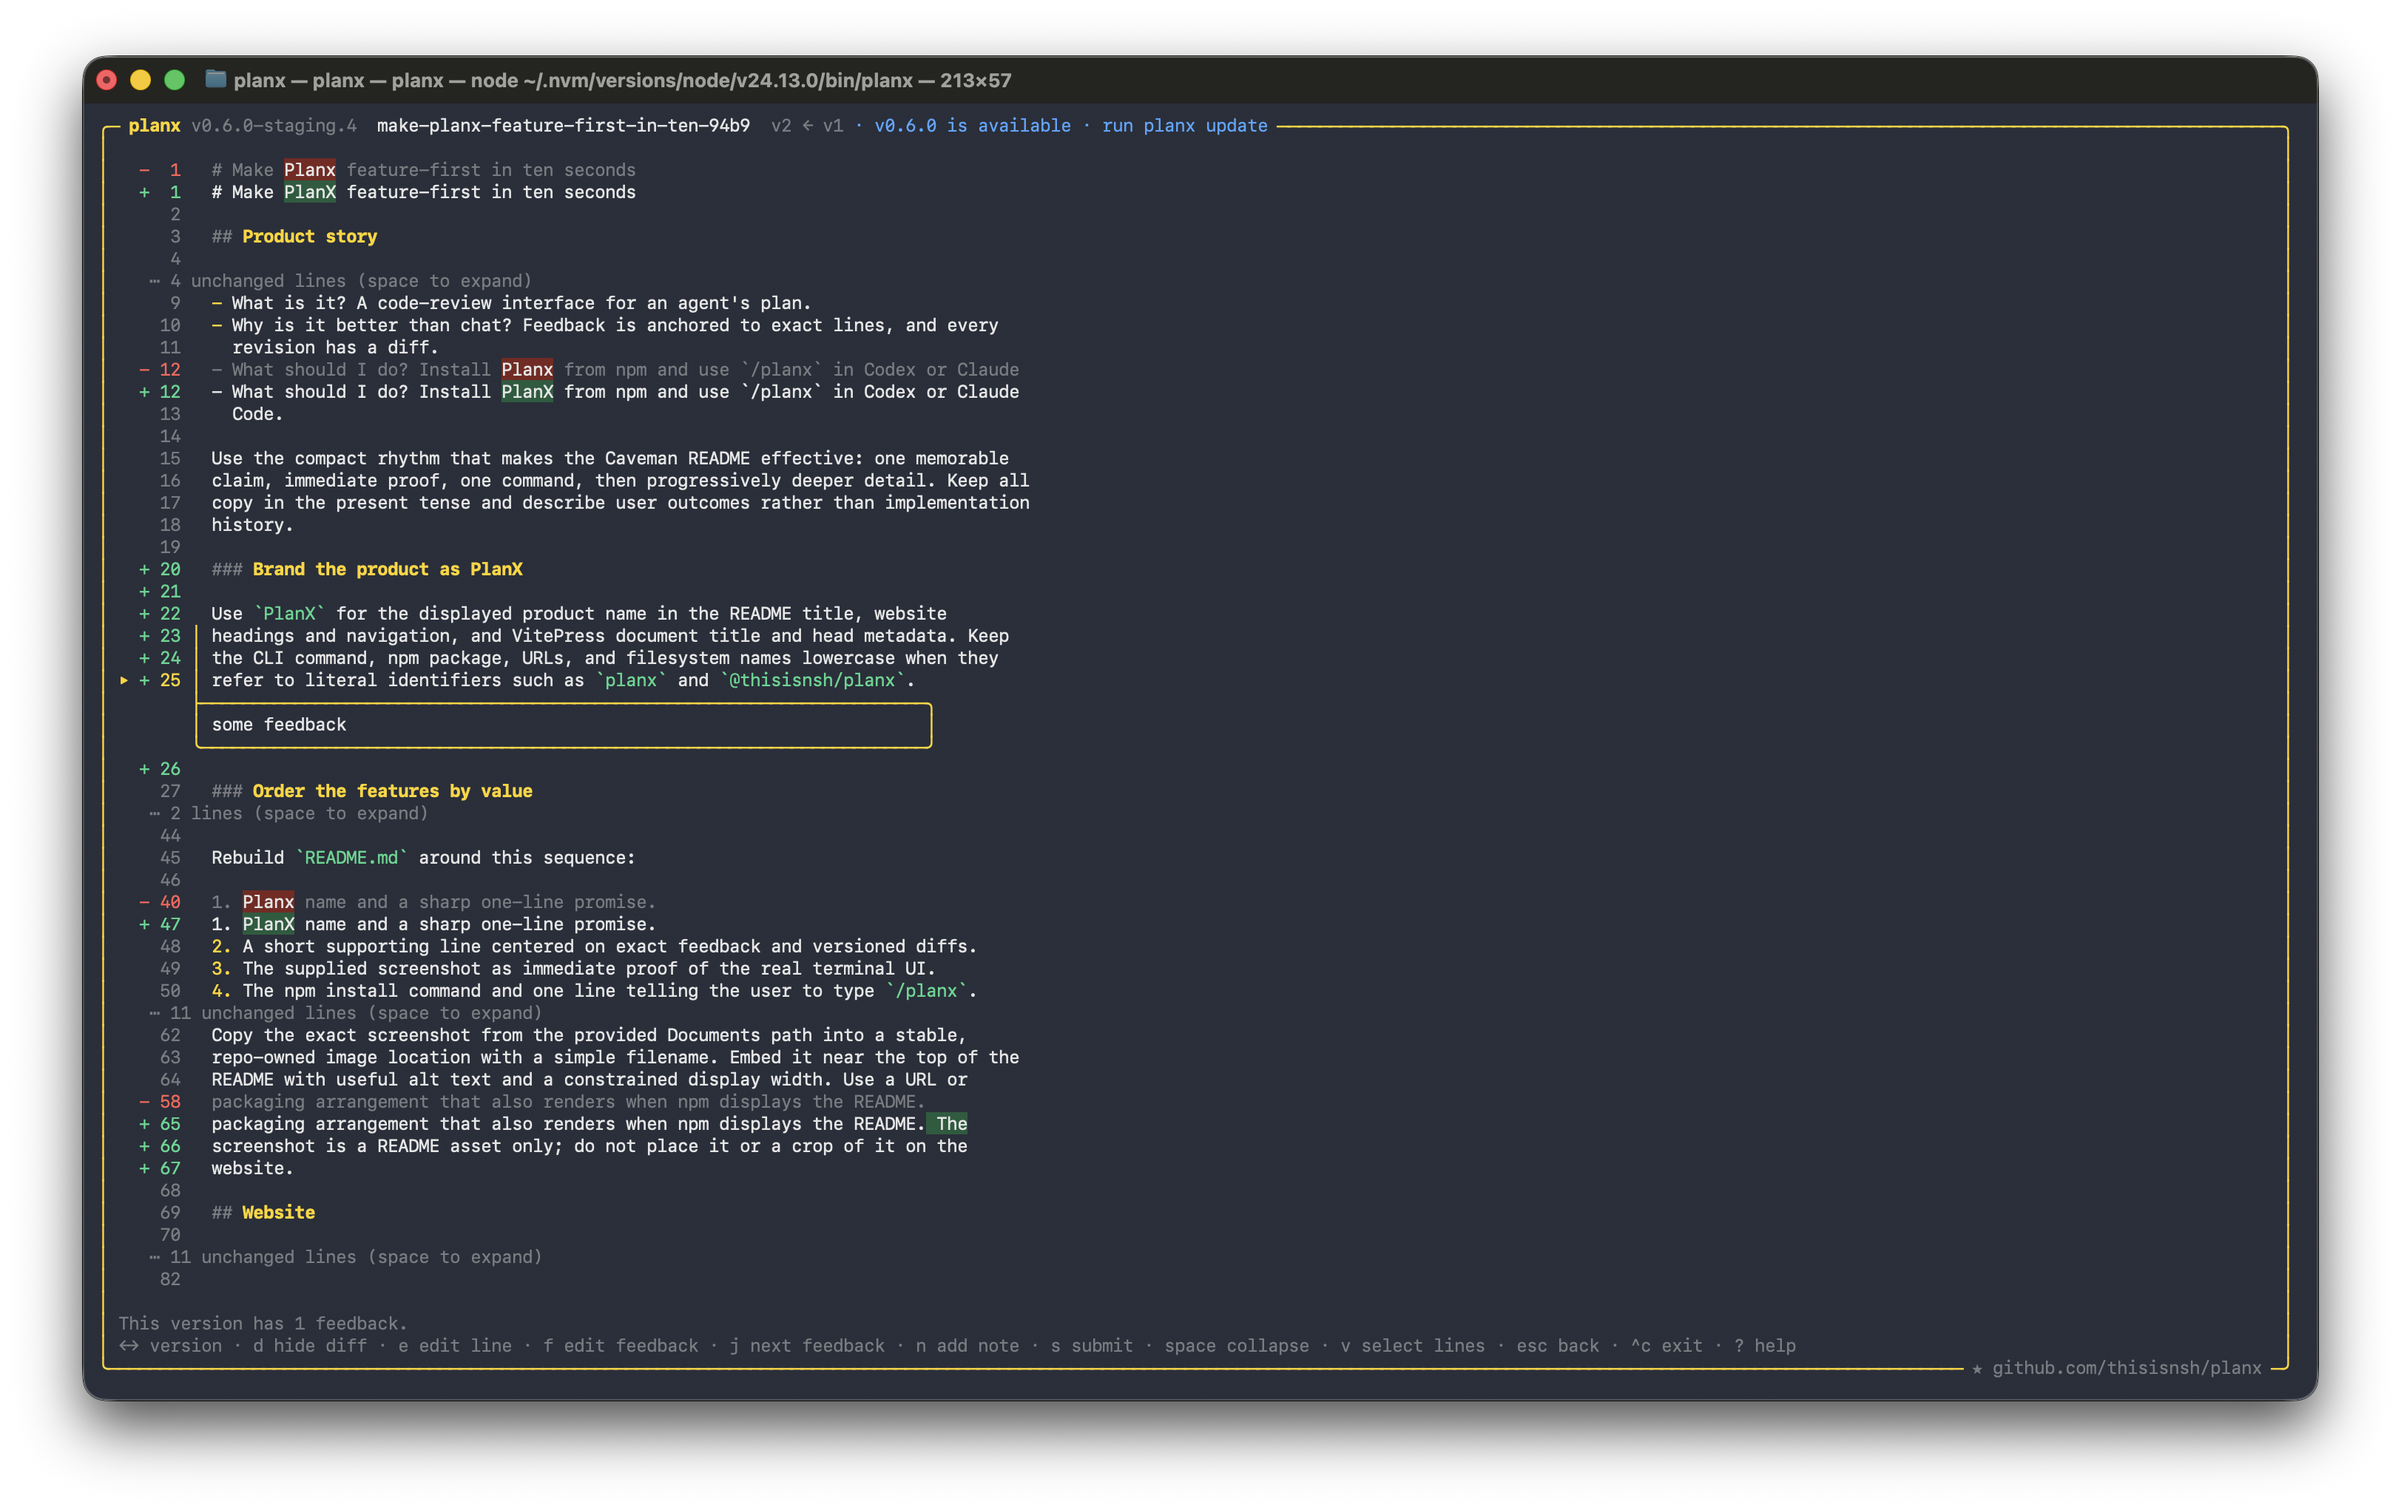
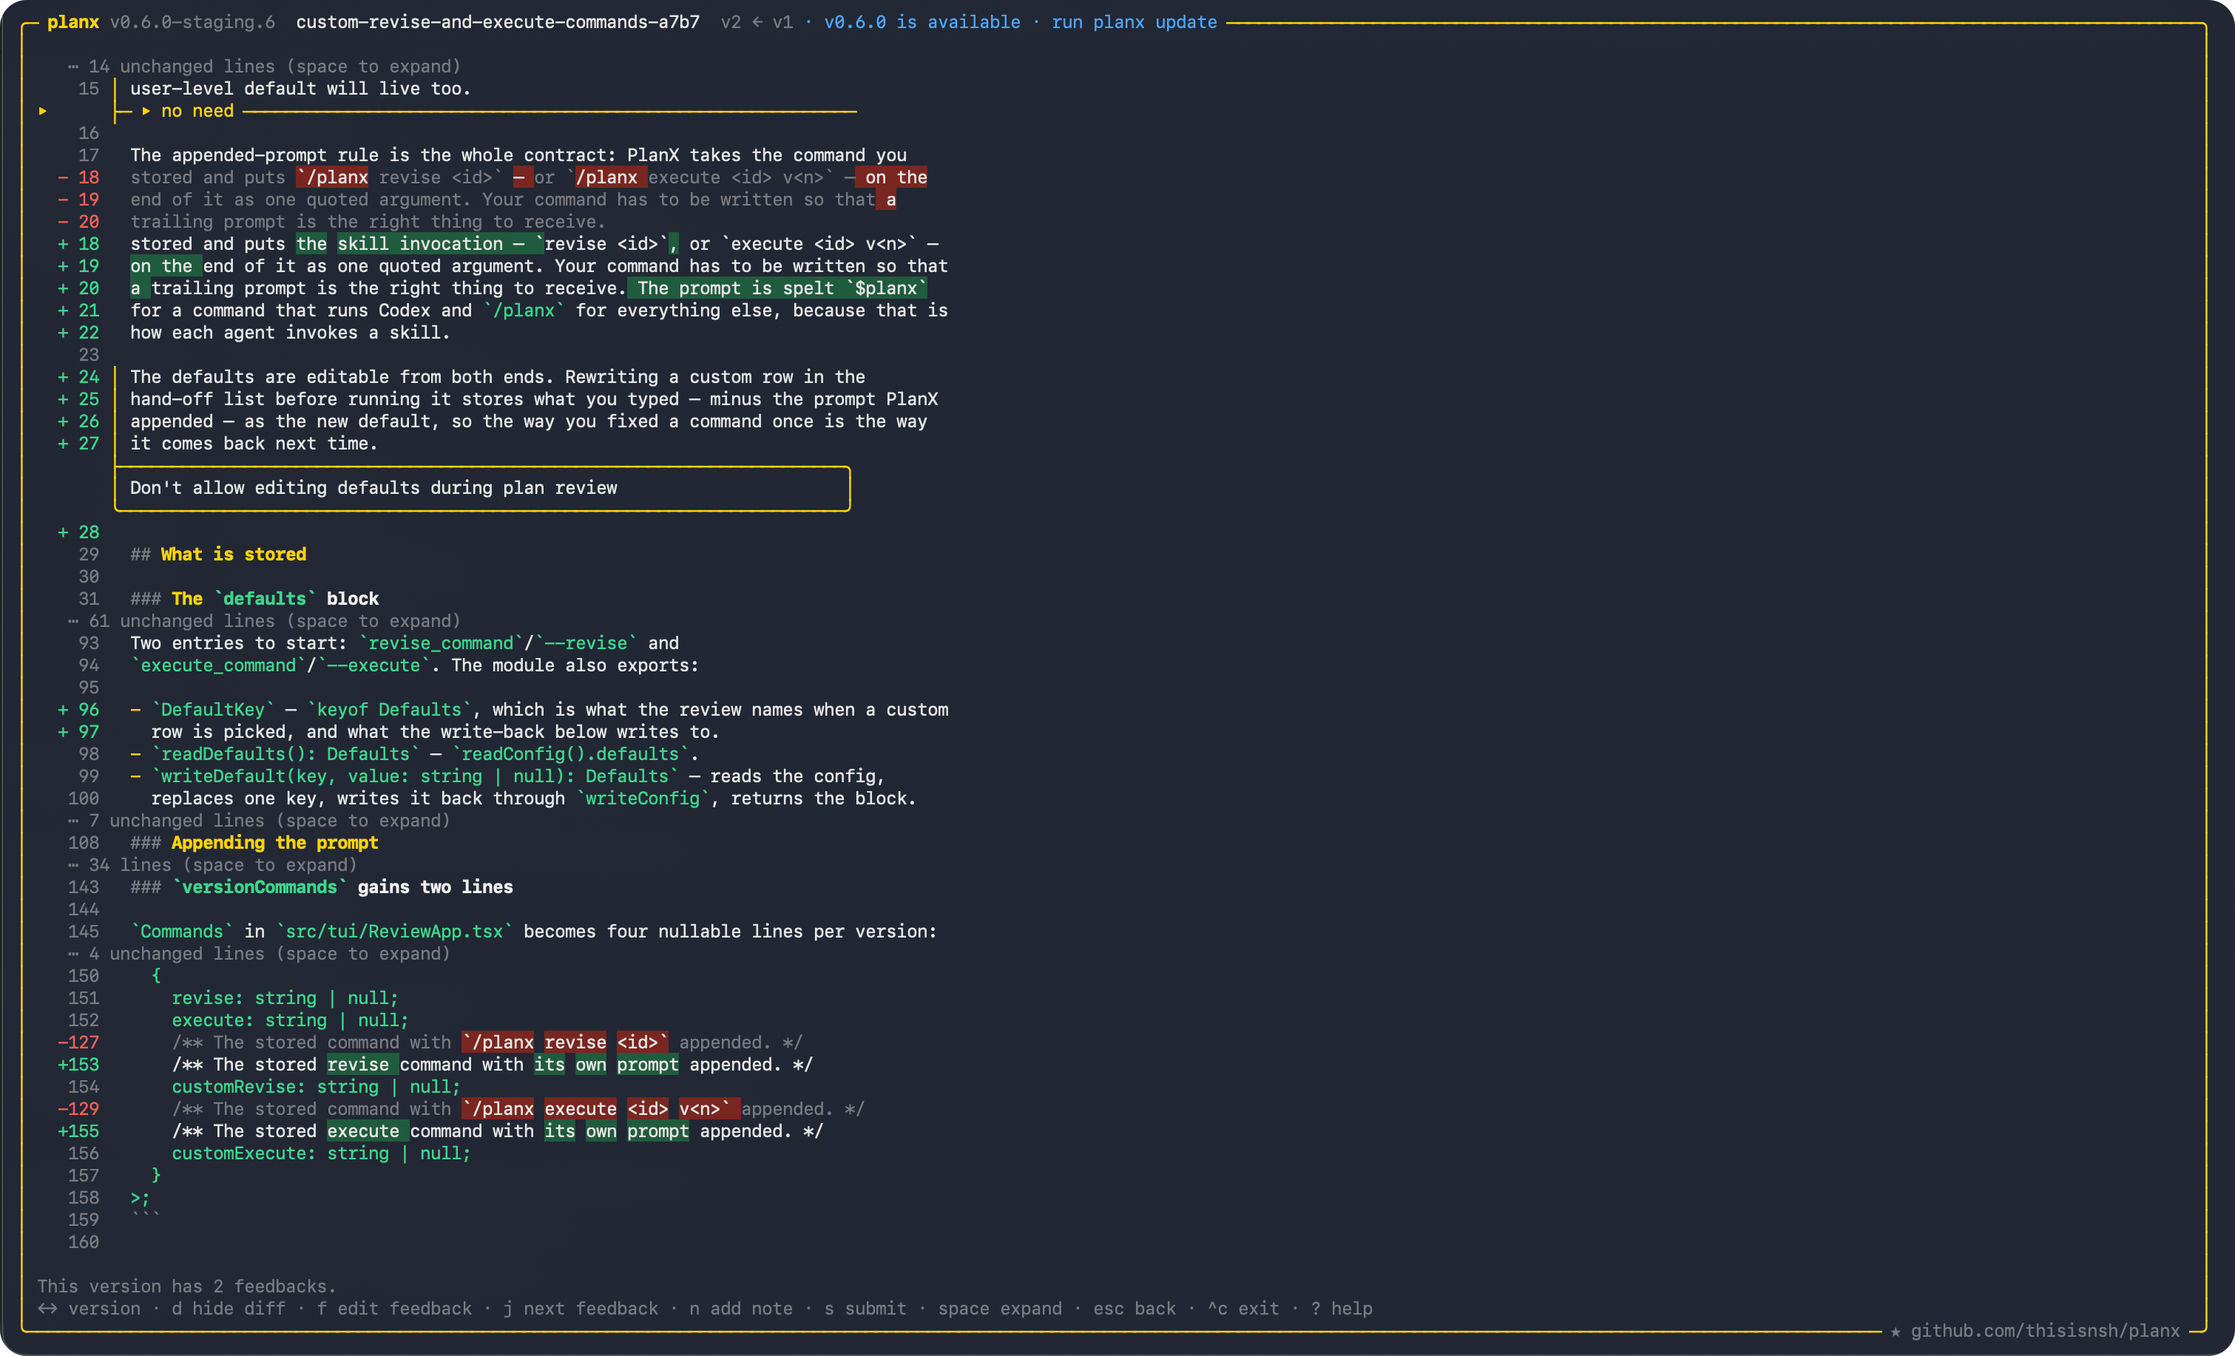
Update README.md

Changed region(s): [[0.0, 0.0, 1.0, 1.0], [0.3111, 0.4973, 0.3733, 0.5284]]

diff --git a/test/site-demo.test.ts b/test/site-demo.test.ts
@@ -56,12 +56,14 @@ describe('the single-page product website', () => {
     expect(component).not.toMatch(/<button|<input|@click|@keydown|addEventListener/);
   });
 
-  it('keeps implementation and configuration details in README accordions', () => {
+  it('keeps implementation and configuration details expanded in the README', () => {
     const readme = read('README.md');
 
-    expect(readme).toContain('<summary><strong>Configuration</strong></summary>');
-    expect(readme).toContain('<summary><strong>Plans, cleanup, and removal</strong></summary>');
-    expect(readme).toContain('custom hand-off commands');
+    expect(readme).toContain('## Configuration');
+    expect(readme).toContain('## Agent setup and updates');
+    expect(readme).not.toContain('<details>');
+    expect(readme).toContain('Custom revise and execute commands');
     expect(readme).toContain('The command must accept a trailing prompt');
+    expect(readme).toContain('assets/planx-handoff.png');
   });
 });

diff --git a/README.md b/README.md
@@ -1,6 +1,7 @@
 # PlanX
 
-A skill for coding agents and a terminal interface that helps you plan like never before. **[planx.sh](https://planx.sh)**
+A skill for coding agents and a terminal interface for reviewing plans before
+you execute them. **[planx.sh](https://planx.sh)**
 
 [![npm](https://img.shields.io/npm/v/@thisisnsh/planx?color=ffd400&labelColor=0b0b0c)](https://www.npmjs.com/package/@thisisnsh/planx)
 [![ci](https://img.shields.io/github/actions/workflow/status/thisisnsh/planx/ci.yml?branch=main&labelColor=0b0b0c)](https://github.com/thisisnsh/planx/actions/workflows/ci.yml)
@@ -11,7 +12,15 @@ A skill for coding agents and a terminal interface that helps you plan like neve
 Planning is not a ritual you perform to make an agent feel prepared. It is the
 moment you decide what will be built.
 
-PlanX turns the giant blob of text you read once and lose in chat into a versioned artifact you can actually review — compare revisions, comment on exact lines, make edits, and execute only the version you approve.
+PlanX turns the giant blob of text you read once and lose in chat into a
+versioned artifact you can actually review:
+
+- Compare every revision.
+- Comment on exact lines.
+- Edit what is already decided.
+- Execute only the version you approve.
+
+## Install
 
 ```bash
 npm install --global @thisisnsh/planx
@@ -23,11 +32,10 @@ Start a new agent session, then ask for a reviewable plan:
 Codex       $planx <task>
 Claude Code /planx <task>
 ```
+
 PlanX installs its skill into existing Codex and Claude Code installations.
 
-<p align="center">
-  <img src="https://raw.githubusercontent.com/thisisnsh/planx/main/assets/planx-review.png" alt="PlanX comparing two versions of a plan with a collapsed unchanged section, an edited line, and feedback attached to an exact line" width="920">
-</p>
+![PlanX diff](assets/planx-diff.png)
 
 ## The workflow
 
@@ -38,50 +46,34 @@ PlanX installs its skill into existing Codex and Claude Code installations.
 2. **Review outside the agent.** Run `planx`, read the plan, collapse sections,
    select exact lines, leave feedback, add a whole-plan note, or edit directly.
 3. **Revise with context.** Send the review back to the same agent session, or
-   hand it to another agent. Every revision becomes a new version you can compare.
+   hand it to another agent. Every revision becomes a new version you can
+   compare.
 4. **Execute what you approved.** Choose an exact reviewed version and let the
    agent build that version—not a fuzzy recollection of the conversation.
 
 ## What changes when plans become reviewable
 
-<table>
-<tr>
-<td width="50%" valign="top">
-<h3>Versioned, not overwritten</h3>
-Every revision stays attached to the plan. Walk from the first proposal to the
-settled version without losing the decisions that shaped it.
-</td>
-<td width="50%" valign="top">
-<h3>Diffs, not rereading</h3>
-See removed and added words together. Unchanged sections collapse so your attention
-goes to the decisions that moved.
-</td>
-</tr>
-<tr>
-<td width="50%" valign="top">
-<h3>Exact feedback, not vague prompts</h3>
-Select one line or a range. The agent receives your comment beside the exact
-text it needs to change.
-</td>
-<td width="50%" valign="top">
-<h3>Notes and direct edits</h3>
-Add one instruction for the whole plan, or rewrite a line yourself when the
-right wording is already obvious.
-</td>
-</tr>
-<tr>
-<td width="50%" valign="top">
-<h3>Readable at any length</h3>
-Collapse sections, feedback boxes, and unchanged diff runs. Keep the current
-decision visible without deleting its context.
-</td>
-<td width="50%" valign="top">
-<h3>Agent-agnostic hand-offs</h3>
-Plan in Codex, revise in Claude Code, execute with another agent—or keep the
-entire loop in one agent session.
-</td>
-</tr>
-</table>
+### Compare without rereading
+
+Every revision stays attached to the plan. Word-level diffs show what moved,
+and unchanged sections collapse so your attention goes to the new decisions.
+
+![PlanX diff](assets/planx-diff.png)
+
+### Give precise feedback
+
+Select one line or a range and comment beside the exact text. Add a note for the
+whole plan, or edit a line directly when the right wording is already obvious.
+
+![PlanX feedback](assets/planx-feedback.png)
+
+### Keep the plan readable
+
+Collapse sections, feedback boxes, and unchanged diff runs without deleting
+their context. Long plans stay navigable from the first proposal to the settled
+version.
+
+![PlanX collapse](assets/planx-collapse.png)
 
 ## Use the agent you want
 
@@ -95,7 +87,7 @@ cross-agent workflows ordinary: one agent can plan, another can revise, and a
 third can execute. The receiving agent only needs access to the PlanX skill and
 CLI.
 
-#### Installation and agent setup
+### Agent setup and updates
 
 PlanX requires Node.js 20.19 or newer. The npm installation adds the `planx`
 CLI and writes the PlanX skill into agent directories that already exist.
@@ -111,9 +103,13 @@ planx add-skills --agent claude
 Start a new agent session after installing or refreshing the skill. Set
 `PLANX_NO_POSTINSTALL=1` before npm installation to skip automatic skill setup.
 
-To update PlanX, run `planx update`.
+Update PlanX and its installed skills with:
 
-## Configuration
+```bash
+planx update
+```
+
+## Configuration for other agents
 
 Open the defaults screen with:
 
@@ -128,10 +124,10 @@ planx defaults --revise "custom-agent exec --arg"
 planx defaults --execute "custom-agent --some-arg"
 ```
 
-The command must accept a trailing prompt, and the receiving agent
-must have the PlanX skill installed.
+The command must accept a trailing prompt, and the receiving agent must have the
+PlanX skill installed.
 
-## Remove the best way to plan
+## Uninstall the best way to plan
 
 ```bash
 planx remove-skills
